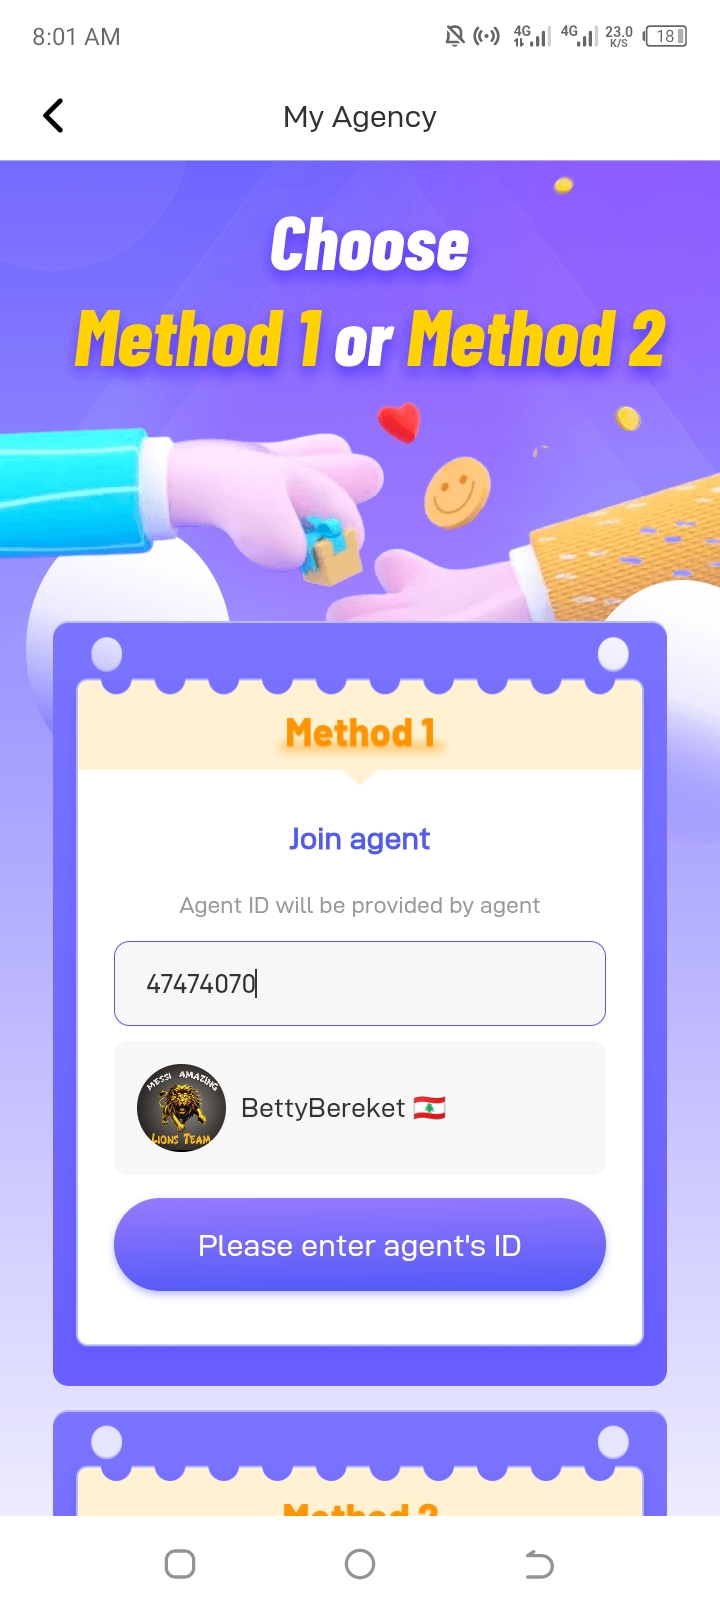
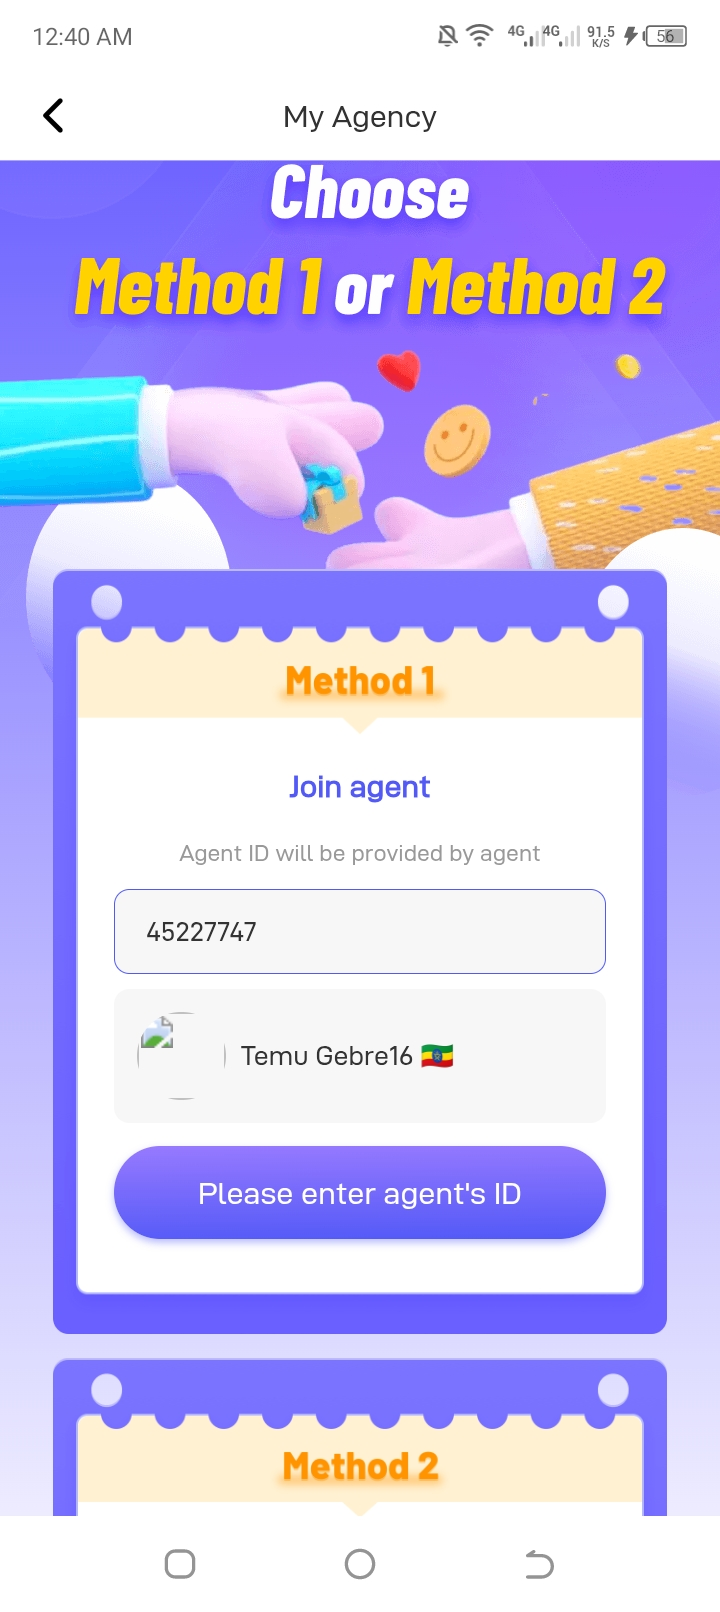
temesgen

diff --git a/index.html b/index.html
@@ -13,7 +13,7 @@
 
 <link rel="icon" type="image/png" href="assets/image/icon.png">
 
-<title data-i18n="page_title">Popo Live Agent Beza Template</title>
+<title data-i18n="page_title">Popo Live Agent Temesgen Template</title>
 
 <link rel="stylesheet" href="assets/css/style.css">
 
@@ -35,7 +35,7 @@
 
 </div>
 
-<div class="logo-text" data-i18n="logo_text">Beza Agent</div>
+<div class="logo-text" data-i18n="logo_text">Temesgen Agent</div>
 
 </div>
 
@@ -58,22 +58,33 @@
 
 <!-- Main Content -->
 <main class="main-content">
+
+    <!-- floating ID number -->
+     <div class="floating-id">
+        <div class="id-number" data-i18n="live_id">45227747
+            
+        </div>
+        <div class="id-label" data-i18n="live_id_label">Temu Gebre16🇪🇹
+            <i class="fa fas-cart"></i>
+        </div>
+    </div>
+
     <!-- Home Page -->
     <div id="home-page" class="fade-in">
     <!-- Hero Section -->
     <section class="hero-section">
-        <h1 class="hero-title" data-i18n="hero_title">Welcome to Agent Beza's personal page.</h1>
+        <h1 class="hero-title" data-i18n="hero_title">Welcome to Agent Temesgen's personal page.</h1>
         <p class="hero-subtitle" data-i18n="hero_subtitle">Here you will find everything you need to become a successful Popo Live user</p>
     </section>
 
     <!-- Existing Sections -->
     <section class="section slide-in-left sectionii">
         <div class="content">
-        <div class="image">
-            <img src="assets/image/photo_2025-06-13_15-42-59.jpg" alt="Agent Kamal" data-i18n="img_agent_kamal" />
+        <div class="a-circle-profile-image">
+            <img src="assets/image/photo_2025-06-13_15-42-59.jpg" alt="Agent Temesgen Gebre" data-i18n="img_agent_kamal" />
         </div>
         <div class="text">
-            <h2 data-i18n="hello_agent_meseret">Hello, I am Agent Beza Bereket</h2>
+            <h2 data-i18n="hello_agent_meseret">Hello, I am Agent Temesgen Gebre</h2>
             <p data-i18n="agent_meseret_intro">It's been 5 months since I started working on Popo Live. I'm earning over 100,000 birr per month.</p>
         </div>
         </div>
@@ -82,7 +93,7 @@
     <section class="section reverse slide-in-right">
         <div class="content">
         <div class="image">
-            <img src="assets/image/picpic.jpg" alt="Success Story" data-i18n="img_success_story" />
+            <img src="assets/image/picpic.png" alt="Success Story" data-i18n="img_success_story" />
         </div>
         <div class="text">
             <h2 data-i18n="earn_additional_income">If you want to earn additional income like me</h2>
@@ -152,11 +163,11 @@
         <div class="text">
             <h2 data-i18n="finally">5. Finally</h2>
             <p data-i18n="finally_desc">When you tap "My Agency" from what's shown in the photo at point 4, this will appear. Next, tap "Please enter agent's 
-            ID" and enter "47474829",  then tap  below,  Beza_Agency  and finally we tap "confirm" and a certificate will be shown to us.</p>
+            ID" and enter "45227747",  then tap  below,  Temesgen Gebre_Agency  and finally we tap "confirm" and a certificate will be shown to us.</p>
             <div class="info-cards">
             <div class="info-card copy-card" data-aos="fade-right" data-aos-delay="600">
                 <i class="fas fa-id-badge"></i>
-                <p class="live-id" data-i18n="live_id">47474829</p>
+                <p class="live-id" data-i18n="live_id">45227747</p>
             </div>
             </div>
         </div>
@@ -243,7 +254,7 @@
 </div>
 
 <div class="offer-cta" data-aos="fade-up" data-aos-delay="500" style="text-align: center;">
-      <a href="https://h5.vshowapi.com/guild/agency_invite/register?inviter_id=47474829&c=poppo" class="fancy-btn gradient-btn" target="_blank" style="display: inline-block; text-align: center; padding: 12px 24px; background: linear-gradient(to right, #f72585, #7209b7); color: white; border-radius: 8px; font-weight: bold; text-decoration: none;" data-i18n="agency_registration_link"> Agency Registration  Link </a> </div>
+      <a href="https://h5.vshowapi.com/guild/agency_invite/register?inviter_id=45227747&c=poppo" class="fancy-btn gradient-btn" target="_blank" style="display: inline-block; text-align: center; padding: 12px 24px; background: linear-gradient(to right, #f72585, #7209b7); color: white; border-radius: 8px; font-weight: bold; text-decoration: none;" data-i18n="agency_registration_link"> Agency Registration  Link </a> </div>
 </div>
 
 </section>
@@ -350,7 +361,7 @@ and agency work. We earn different amounts of income from all of these.
         <img src="assets/image/photo_2025-06-13_15-42-59.jpg" alt="Agent Kamal" class="contact-avatar" data-aos="zoom-in" data-i18n="img_contact_avatar" />
         <div class="contact-title">
             <h3 data-aos="fade-right" data-i18n="contact_me">Contact Me</h3>
-            <p data-aos="fade-left" data-i18n="contact_professional">Agent Beza - Popo Live Professional</p>
+            <p data-aos="fade-left" data-i18n="contact_professional">Agent Temesgen Gebre - Popo Live Professional</p>
         </div>
         </div>
         
@@ -361,40 +372,40 @@ and agency work. We earn different amounts of income from all of these.
             <div class="contact-item" data-aos="fade-up" data-aos-delay="100">
                 <span class="icon-circle"><i class="fas fa-phone"></i></span>
                 <h3 data-i18n="phone">Phone</h3>
-                <p data-i18n="phone_number">+96170701682</p>
+                <p data-i18n="phone_number">+251969284410</p>
             </div>
             
             <div class="contact-item" data-aos="fade-up" data-aos-delay="200">
-                <a href="https://t.me/Beza_Telegram09090990" target="_blank" data-i18n="telegram_link"></a>
+                <a href="https://t.me/@pop202516" target="_blank" data-i18n="telegram_link"></a>
                 <span class="icon-circle"><i class="fab fa-telegram"></i></span>
                 <h3 data-i18n="telegram">Telegram</h3>
-                Beza Telegram</a>
+                Temesgen Telegram</a>
             </div>
             
             <div class="contact-item" data-aos="fade-up" data-aos-delay="300">
                 <a href="https://youtube.com/@bezadinku" target="_blank" data-i18n="youtube_link">
                 <span class="icon-circle"><i class="fab fa-youtube"></i></span>
                 <h3 data-i18n="youtube">YouTube</h3>
-                Beza Youtube</a>
+                Temesgen Youtube</a>
             </div>
             
             <div class="contact-item" data-aos="fade-up" data-aos-delay="400">
-                <a href="https://www.tiktok.com/@beza7437811567072" target="_blank" data-i18n="tiktok_link1">
+                <a href="https://www.tiktok.com/@temugebre5" target="_blank" data-i18n="tiktok_link1">
                 <span class="icon-circle"><i class="fab fa-tiktok"></i></span>
                 <h3 data-i18n="tiktok">Tiktok</h3>
-                Beza Tiktok</a>
+                Temesgen Tiktok</a>
             </div>
             
             <div class="contact-item" data-aos="fade-up" data-aos-delay="500">
                 <span class="icon-circle"><i class="fab fa-facebook"></i></span>
                 <h3 data-i18n="facebook">Facebook</h3>
-                <a href="/" target="_blank" data-i18n="facebook_link">Beza Facebook</a>
+                <a href="/" target="_blank" data-i18n="facebook_link">Temesgen Facebook</a>
             </div>
             
             <div class="contact-item" data-aos="fade-up" data-aos-delay="600">
                 <span class="icon-circle"><i class="fab fa-whatsapp"></i></span>
                 <h3 data-i18n="whatsapp">Whatsapp</h3>
-                <a href="https://wa.me/+96170701682" target="_blank" data-i18n="whatsapp_link">Beza Whatsapp</a>
+                <a href="https://wa.me/+251969284410" target="_blank" data-i18n="whatsapp_link">Temesgen Whatsapp</a>
             </div>
             </div>
         </div>

diff --git a/assets/css/style.css b/assets/css/style.css
@@ -171,6 +171,7 @@ body::after {
   cursor: pointer;
   color: var(--poppo-dark-purple);
   padding-right: 25px;
+  background-color: rgba(182, 182, 182, 0.527);
 }
 
 /* Mobile Menu Enhancements */
@@ -224,7 +225,7 @@ body::after {
 ============================================================ */
 .hero-section {
   text-align: center;
-  padding: 8rem 2rem 4rem;
+  padding: 5rem 1rem 2rem;
   position: relative;
   overflow: hidden;
   background: linear-gradient(rgba(180, 38, 38, 0.226), rgba(27, 197, 174, 0.233)),
@@ -264,7 +265,7 @@ body::after {
 }
 
 .section {
-  padding: 4rem 2rem;
+  padding: 1rem 2rem;
   max-width: 1200px;
   margin: 0 auto;
   display: flex;
@@ -1140,7 +1141,7 @@ details p {
   .hero-subtitle { font-size: 1rem; }
   .offer-steps-grid { grid-template-columns: 1fr !important; }
   .main-content { padding: 1rem; }
-  .hero-section { padding: 2rem 1rem; }
+  .hero-section { padding: 0; }
   .section { margin: 2rem 0; }
   .fancy-buttons { flex-direction: column; }
   .fancy-btn { width: fit-content; padding: 0; margin: 0; }
@@ -1184,4 +1185,193 @@ details p {
   0% { background-position: 0% 50%; }
   50% { background-position: 100% 50%; }
   100% { background-position: 0% 50%; }
+}
+
+
+
+
+
+
+
+
+
+
+
+
+
+
+
+
+
+
+
+
+
+
+/* ============================================================
+  Circle Profile Image - Magical Styling
+============================================================ */
+.a-circle-profile-image {
+  position: relative;
+  width: 250px;
+  height: 250px;
+  border-radius: 50%;
+  margin: 0 auto;
+  box-shadow: 0 0 30px rgba(158, 84, 255, 0.5);
+  transition: all 0.5s ease;
+  z-index: 1;
+  overflow: hidden;
+  border: 3px solid transparent;
+  background: linear-gradient(45deg, 
+              var(--spell-purple), 
+              var(--fairy-pink), 
+              var(--wizard-blue));
+  background-size: 200% 200%;
+  animation: gradientBorder 8s ease infinite;
+}
+
+.a-circle-profile-image:hover {
+  transform: scale(1.05);
+  box-shadow: 0 0 50px rgba(158, 84, 255, 0.8),
+              0 0 70px rgba(247, 37, 133, 0.6);
+}
+
+.a-circle-profile-image img {
+  width: 100%;
+  height: 100%;
+  object-fit: cover;
+  border-radius: 50%;
+  position: relative;
+  z-index: 2;
+  transition: all 0.5s ease;
+  border: 4px solid white;
+  box-sizing: border-box;
+}
+
+.a-circle-profile-image:hover img {
+  transform: scale(0.95);
+  filter: brightness(1.05) contrast(1.05);
+}
+
+/* Animated Gradient Border */
+@keyframes gradientBorder {
+  0% {
+    background-position: 0% 50%;
+    border-color: var(--spell-purple);
+  }
+  50% {
+    background-position: 100% 50%;
+    border-color: var(--fairy-pink);
+  }
+  100% {
+    background-position: 0% 50%;
+    border-color: var(--wizard-blue);
+  }
+}
+
+/* Floating Sparkles Effect */
+.a-circle-profile-image::before {
+  content: "";
+  position: absolute;
+  top: -10px;
+  left: -10px;
+  right: -10px;
+  bottom: -10px;
+  background: radial-gradient(circle, 
+              rgba(255, 255, 255, 0.8) 0%, 
+              rgba(255, 255, 255, 0) 70%);
+  border-radius: 50%;
+  animation: sparkle 4s infinite alternate;
+  z-index: 3;
+  pointer-events: none;
+}
+
+@keyframes sparkle {
+  0% { opacity: 0.3; transform: scale(0.95); }
+  100% { opacity: 0.8; transform: scale(1.05); }
+}
+
+/* Glowing Orb Effect */
+.a-circle-profile-image::after {
+  content: "";
+  position: absolute;
+  top: 50%;
+  left: 50%;
+  width: 120%;
+  height: 120%;
+  background: radial-gradient(circle, 
+              rgba(158, 84, 255, 0.2) 0%, 
+              rgba(255, 107, 255, 0.1) 30%, 
+              transparent 70%);
+  transform: translate(-50%, -50%);
+  z-index: 1;
+  animation: pulseGlow 6s infinite alternate;
+}
+
+@keyframes pulseGlow {
+  0% { opacity: 0.5; transform: translate(-50%, -50%) scale(0.95); }
+  50% { opacity: 0.8; transform: translate(-50%, -50%) scale(1.05); }
+  100% { opacity: 0.5; transform: translate(-50%, -50%) scale(0.95); }
+}
+
+/* Floating Particles */
+.a-circle-profile-image .particle {
+  position: absolute;
+  background-color: white;
+  border-radius: 50%;
+  pointer-events: none;
+  z-index: 4;
+  animation: floatParticle linear infinite;
+}
+
+@keyframes floatParticle {
+  0% {
+    transform: translateY(0) translateX(0);
+    opacity: 0;
+  }
+  10% {
+    opacity: 1;
+  }
+  90% {
+    opacity: 1;
+  }
+  100% {
+    transform: translateY(-100px) translateX(20px);
+    opacity: 0;
+  }
+}
+
+/* Responsive Adjustments */
+@media (max-width: 768px) {
+  .a-circle-profile-image {
+    width: 250px;
+    height: 250px;
+  }
+}
+
+@media (max-width: 576px) {
+  .a-circle-profile-image {
+    width: 220px;
+    height: 220px;
+  }
+}
+.floating-id {
+  position: fixed;
+  bottom: 20px;
+  right: 20px;
+  background: rgba(255, 255, 255, 0.8);
+  border: 1px solid #0c2b53;
+  border-radius: 5px;
+  padding: 10px 15px;
+  box-shadow: 0 2px 10px rgba(0, 0, 0, 0.1);
+  z-index: 1000000;
+  color:rgba(247, 37, 133, 0.6)
+}
+.floating-id .id-number {
+  font-weight: bold;
+  font-size: 1.2em;
+}
+.floating-id .id-label {
+  font-size: 0.9em;
+  color: #666;
 }

diff --git a/assets/js/script.js b/assets/js/script.js
@@ -470,3 +470,5 @@ document.addEventListener('DOMContentLoaded', () => {
   }
   window.showHome?.();
 });
+
+
